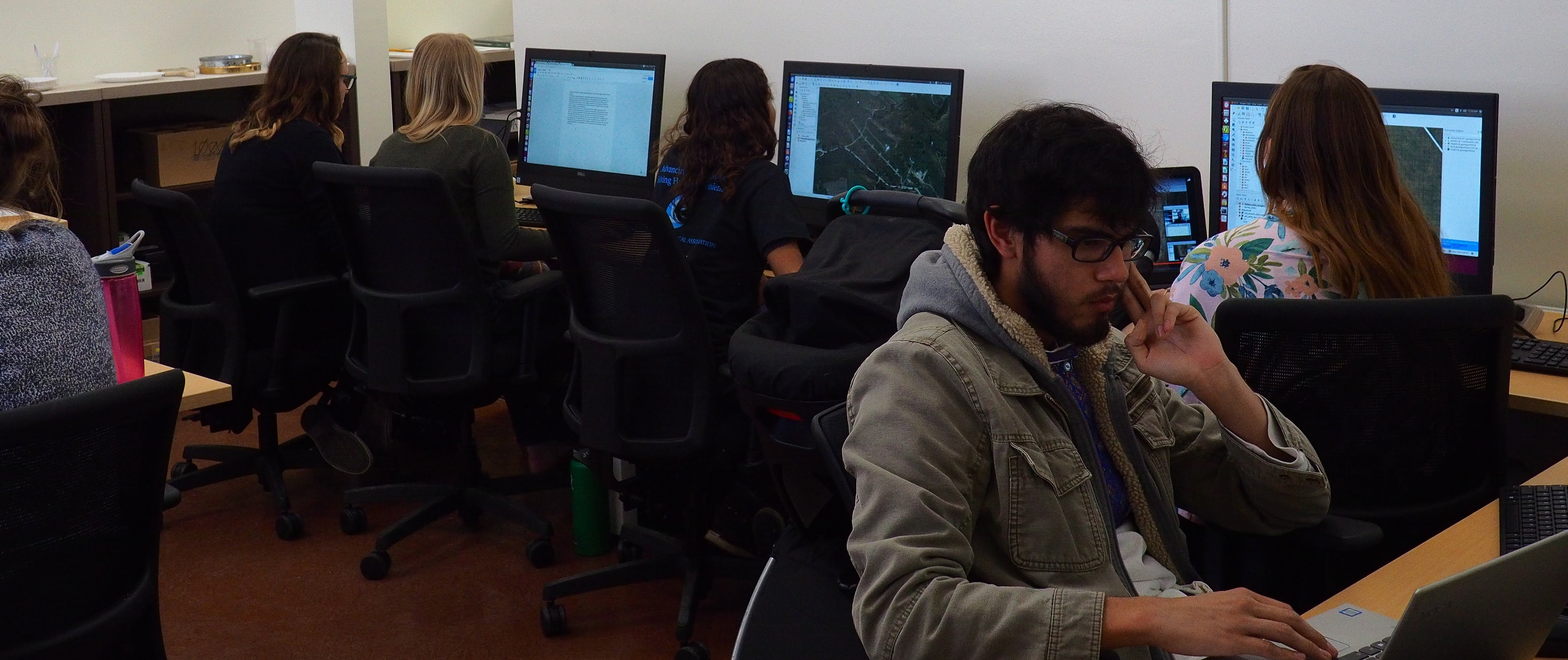
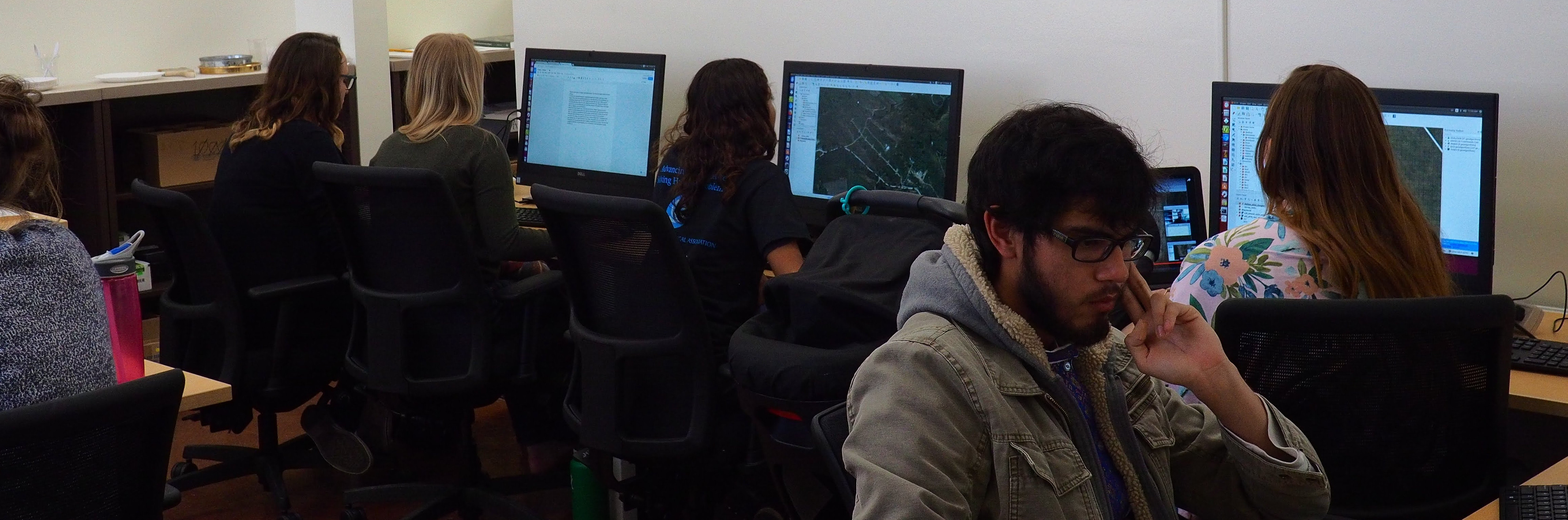
comparch lab header

diff --git a/_pages/CompArchLab.md b/_pages/CompArchLab.md
@@ -5,16 +5,15 @@ modified: 2020-11-11
 excerpt: About the Computational Archaeology Laboratory at San Diego State University.
 tags: [Computational Archaeology, Laboratory, Resources]
 permalink: /CompArchLab/
+header:
+  overlay_color: "#000"
+  overlay_filter: "0.25"
+  overlay_image: /images/CompArch_Students.jpg
+  image_description: "Students in ANTH 562 "Computational Archaeology" in the Computational Archaeology Lab."
 ---
 
 The Computational Archaeology Laboratory at San Diego State University is a state of the art facility for computational approaches in archaeology and geoarchaeology. Specialties include GIS, agent-based modeling, imagery analysis, advanced statistical modeling, 3D analysis, as well sedimentology, granulometry, geomorphology, landscape analysis, and geochronology. A main focus of research is on the origins and long-term dynamics of coupled human and natural systems, including anthropogenic landscapes, in the Mediterranean and beyond.
 <br><br>
-
-<figure>
-	<a href="/images/CompArch_Students.jpg"><img src="/images/CompArch_Students.jpg" alt="Students in ANTH 583 GIS and Imagery Analysis doing research in the Computational Archaeology Lab."></a>
-	<figcaption>Students in ANTH 562 "Computational Archaeology" in the Computational Archaeology Lab.</figcaption>
-</figure>
-
 
 ### Lab Information
 
